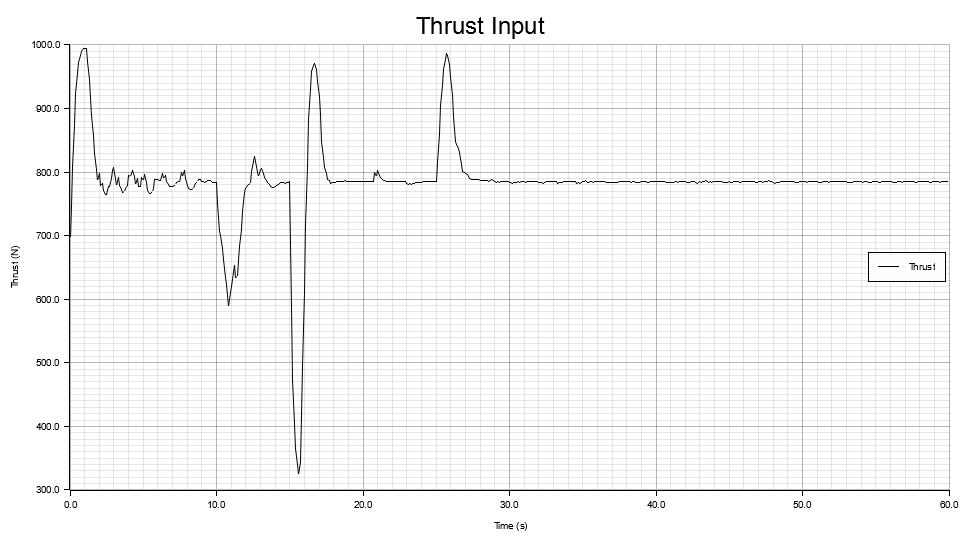
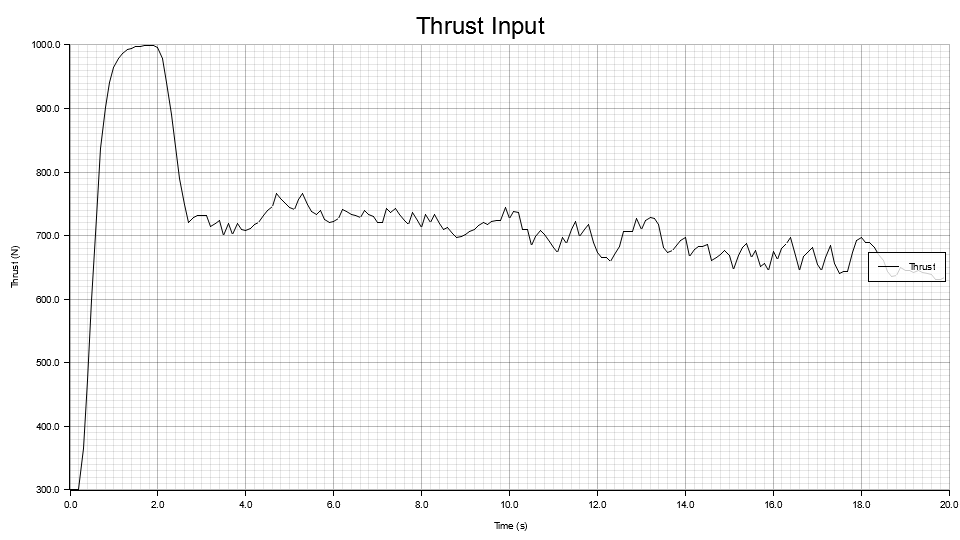
Add tethered hover scenario
Simulate tethered hover scenario with mass change of rocket.

diff --git a/Algorithms/MPC/src/main.rs b/Algorithms/MPC/src/main.rs
@@ -1,7 +1,9 @@
 mod mpc_crate;
+mod externaldynamics;
 
 // use mpc_crate for MPC functions
 use mpc_crate::{mpc_main, dynamics};
+use externaldynamics::{real_dynamics};
 use ndarray::{Array1, Array2};
 use std::f64::consts::PI;
 
@@ -14,25 +16,25 @@ fn main() {
     let n = 13; // [x, y, z, qx, qy, qz, qw, x_dot, y_dot, z_dot, wx, wy, wz]
     let m = 3;  // [gimbal_theta, gimbal_phi, thrust]
     let n_steps = 10;
-    let t_total = 60.0;
+    // let t_total = 60.0; // 60 seconds for lander scenario
+    let t_total = 20.0; // 20 seconds for tethered hover scenario
     let dt = 0.1;
     let iters = (t_total / dt) as usize;
 
     // Initial state: at origin, level, stationary, quaternion [0,0,0,1]
     let mut x = Array1::<f64>::zeros(n);
+    x[2] = 5.0;
     x[6] = 1.0; // qw = 1 (unit quaternion)
 
     // Hover at set point
     let mut xref = Array1::<f64>::zeros(n);
-    xref[0] = 1.0;
-    xref[1] = -1.0;
-    xref[2] = 10.0;
+    
     xref[6] = 1.0; // reference orientation: level (unit quaternion)
 
     let mut z_integral = 0.0;
     let mut y_integral = 0.0;
     let mut x_integral = 0.0;
-    let ki_z = 0.05;
+    let ki_z = 0.2;
     let ki_y = 0.01;
     let ki_x = 0.01;
 
@@ -41,7 +43,7 @@ fn main() {
     let mut xref_traj_vec: Vec<Array1<f64>> = xref_traj.axis_iter(ndarray::Axis(0)).map(|row| row.to_owned()).collect();
 
     // Warm start: hover thrust (thrust = mass * gravity, gimbal angles = 0)
-    let m_rocket = 80.0;
+    let mut m_rocket = 80.0;
     let g = 9.81;
     let hover_thrust = m_rocket * g;
     let mut u_warm = Array2::<f64>::zeros((n_steps, m));
@@ -57,7 +59,7 @@ fn main() {
         1.0, 1.0, 1.0          // angular velocities wx, wy, wz
     ];
     let q = Array2::<f64>::from_diag(&Array1::from(q_vec.clone()));
-    let r = Array2::<f64>::from_diag(&Array1::from(vec![000.0, 000.0, 0.00]));
+    let r = Array2::<f64>::from_diag(&Array1::from(vec![0000.0, 0000.0, 0.00]));
     // let qn = q.clone();
     let qn = Array2::<f64>::from_diag(&Array1::from(vec![
         200.0, 200.0, 5000.0,   // position x, y, z
@@ -113,6 +115,11 @@ fn main() {
             xref_traj_vec = xref_traj.axis_iter(ndarray::Axis(0)).map(|row| row.to_owned()).collect();
         } 
 
+        
+        xref[0] = 0.0;
+        xref[1] = 0.0;
+        xref[2] = 5.0;
+
         let z_error = xref[2] - x[2];
         z_integral += z_error * dt;
         let mut x_ref_mod = xref.clone();
@@ -133,41 +140,31 @@ fn main() {
             xref_traj_vec[i][1] = x_ref_mod[1];
         }
 
-
         // display progress
         println!("Time step: {}/{}", x_history.len() + 1, iters);
         // Solve MPC to get optimal control sequence
 
         // solve using mpc_main
         // let mut u_warm_vec: Vec<Array1<f64>> = u_warm.axis_iter(ndarray::Axis(0)).map(|row| row.to_owned()).collect();
-        // let (u_warm_vec, x_new, u_apply) = mpc_main(&x, &mut u_warm_vec, &xref_traj_vec, &q, &r, &qn, &u_min, &u_max, 2, 0.05);
+        // let (u_warm_vec, x_new, mut u_apply) = mpc_main(&x, &mut u_warm_vec, &xref_traj_vec, &q, &r, &qn, &u_min, &u_max, 2, 0.05);
         
         // OR we solve using OpEn
         let (mut u_apply, u_warm) = mpc_crate::OpEnSolve(&x, &u_warm.axis_iter(ndarray::Axis(0)).map(|row| row.to_owned()).collect(), &xref_traj_vec, &q, &r, &qn, &smoothing_weight, &mut panoc_cache);
-
-        //use an average between the current and the past 2 control inputs for smoother application
-        /*
-        if k >= 2 {
-            let u_prev2 = u_history[k - 2].clone();
-            let u_prev1 = u_history[k - 1].clone();
-            u_apply = (&u_prev2 + &u_prev1 + &u_apply) / 3.0;
-        } else if k == 1 {
-            let u_prev1 = u_history[k - 1].clone();
-            u_apply = (&u_prev1 + &u_apply) / 2.0;
-        }
-            */
 
         // exponential filter
         if k >= 1 {
             let alpha = 0.4; // smoothing factor
             let u_prev = u_history[k - 1].clone();
             u_apply = alpha * &u_apply + (1.0 - alpha) * &u_prev;
-        }
+        } 
 
         u_history.push(u_apply.clone());
 
+        m_rocket = m_rocket - 0.001 * u_apply[2] * dt; // decrease mass directly proportional to thrust
+        println!("Time step: {}, Mass: {}", k as f64 * dt, m_rocket);
+
         // Simulate dynamics for one time step
-        x = dynamics(&x, &u_apply);
+        x = real_dynamics(&x, &u_apply, Some(m_rocket));
 
         // print x and u for debugging
         // println!("Time step: {}", x_history.len());

diff --git a/Algorithms/MPC/src/externaldynamics.rs b/Algorithms/MPC/src/externaldynamics.rs
@@ -1,0 +1,132 @@
+// A crate for realistic dynamics of lander
+// Hansel Zhang
+
+use ndarray::{Array1, Array2};
+use ndarray::s;
+use ndarray_linalg::{Inverse, Norm};
+use ndarray::ArrayView1;
+use rand::Rng;
+
+pub fn real_dynamics(x: &Array1<f64>, u: &Array1<f64>, mass: Option<f64>) -> Array1<f64> {
+    // let mut x_next = Array1::<f64>::zeros(x.len());
+    // Constants
+    let m = mass.unwrap_or(80.0);
+    let g = 9.81;
+    let ixx = 20.0;
+    let iyy = 20.0;
+    let izz = 10.0;
+    let dt = 0.1;
+
+    // Inertia matrix and inverse
+    let i = Array2::from_diag(&Array1::from(vec![ixx, iyy, izz]));
+    let i_inv = i.clone().inv().unwrap();
+
+    // Unpack state
+    let x_pos = x[0];
+    let y_pos = x[1];
+    let z_pos = x[2];
+    let qx = x[3];
+    let qy = x[4];
+    let qz = x[5];
+    let qw = x[6];
+    let x_dot = x[7];
+    let y_dot = x[8];
+    let z_dot = x[9];
+    let wx = x[10];
+    let wy = x[11];
+    let wz = x[12];
+
+    // Unpack control
+    let gimbal_theta = u[0];
+    let gimbal_phi = u[1];
+    let mut thrust = u[2];
+    if thrust < 0.0 { thrust = 0.0; }
+
+    // Thrust direction in body frame
+    let tx = gimbal_theta.sin() * gimbal_phi.cos();
+    let ty = gimbal_phi.sin();
+    let tz = gimbal_theta.cos() * gimbal_phi.cos();
+    let thrust_b = Array1::from(vec![tx * thrust, ty * thrust, tz * thrust]);
+
+    // Quaternion normalization
+    let mut q = Array1::from(vec![qx, qy, qz, qw]);
+    let q_norm = q.dot(&q).sqrt();
+    if q_norm < 1e-8 {
+        q = Array1::from(vec![0.0, 0.0, 0.0, 1.0]);
+    } else {
+        q = q.mapv(|v| v / q_norm);
+    }
+    let qx = q[0];
+    let qy = q[1];
+    let qz = q[2];
+    let qw = q[3];
+
+    // Rotation matrix from quaternion
+    let r = Array2::from_shape_vec((3, 3), vec![
+        1.0 - 2.0 * qy * qy - 2.0 * qz * qz, 2.0 * qx * qy - 2.0 * qz * qw, 2.0 * qx * qz + 2.0 * qy * qw,
+        2.0 * qx * qy + 2.0 * qz * qw, 1.0 - 2.0 * qx * qx - 2.0 * qz * qz, 2.0 * qy * qz - 2.0 * qx * qw,
+        2.0 * qx * qz - 2.0 * qy * qw, 2.0 * qy * qz + 2.0 * qx * qw, 1.0 - 2.0 * qx * qx - 2.0 * qy * qy,
+    ]).unwrap();
+
+    // Acceleration in world frame
+    let acc = r.dot(&thrust_b) / m - Array1::from(vec![0.0, 0.0, g]);
+    let x_ddot = acc[0];
+    let y_ddot = acc[1];
+    let z_ddot = acc[2];
+
+    // TVC torque
+    let d = 1.0;
+    let r_cp = Array1::from(vec![0.0, 0.0, -d]);
+    let torque_b = Array1::from(vec![
+        r_cp[1] * thrust_b[2] - r_cp[2] * thrust_b[1],
+        r_cp[2] * thrust_b[0] - r_cp[0] * thrust_b[2],
+        r_cp[0] * thrust_b[1] - r_cp[1] * thrust_b[0],
+    ]);
+
+    // Angular velocity
+    let omega = Array1::from(vec![wx, wy, wz]);
+    let omega_cross_i_omega = Array1::from(vec![
+        omega[1] * (iyy * omega[2]) - omega[2] * (izz * omega[1]),
+        omega[2] * (izz * omega[0]) - omega[0] * (ixx * omega[2]),
+        omega[0] * (ixx * omega[1]) - omega[1] * (iyy * omega[0]),
+    ]);
+    let omega_dot = i_inv.dot(&(torque_b - omega_cross_i_omega));
+
+    // Quaternion derivative
+    let dqdt = Array1::from(vec![
+        qw * wx + qy * wz - qz * wy,
+        qw * wy + qz * wx - qx * wz,
+        qw * wz + qx * wy - qy * wx,
+        -qx * wx - qy * wy - qz * wz,
+    ]).mapv(|v| 0.5 * v);
+
+    // Euler integration
+    let x_pos_new = x_pos + dt * x_dot;
+    let y_pos_new = y_pos + dt * y_dot;
+    let z_pos_new = z_pos + dt * z_dot;
+    let mut q_new = q.clone() + dqdt.mapv(|v| dt * v);
+    let q_new_norm = q_new.dot(&q_new).sqrt();
+    q_new = q_new.mapv(|v| v / q_new_norm);
+    let x_dot_new = x_dot + dt * x_ddot;
+    let y_dot_new = y_dot + dt * y_ddot;
+    let z_dot_new = z_dot + dt * z_ddot;
+    let wx_new = wx + dt * omega_dot[0];
+    let wy_new = wy + dt * omega_dot[1];
+    let wz_new = wz + dt * omega_dot[2];
+
+    let x_next = Array1::from(vec![
+        x_pos_new, y_pos_new, z_pos_new,
+        q_new[0], q_new[1], q_new[2], q_new[3],
+        x_dot_new, y_dot_new, z_dot_new,
+        wx_new, wy_new, wz_new,
+    ]);
+
+    // Add noise
+    let mut rng = rand::thread_rng();
+    let noise_std = 0.01;
+    let noise = Array1::from_shape_fn(x_next.len(), |_| rng.gen_range(-noise_std..noise_std));
+    // println!("Noise: {:?}", noise);
+    let x_next_noisy = &x_next + &noise;
+
+    x_next_noisy
+}
